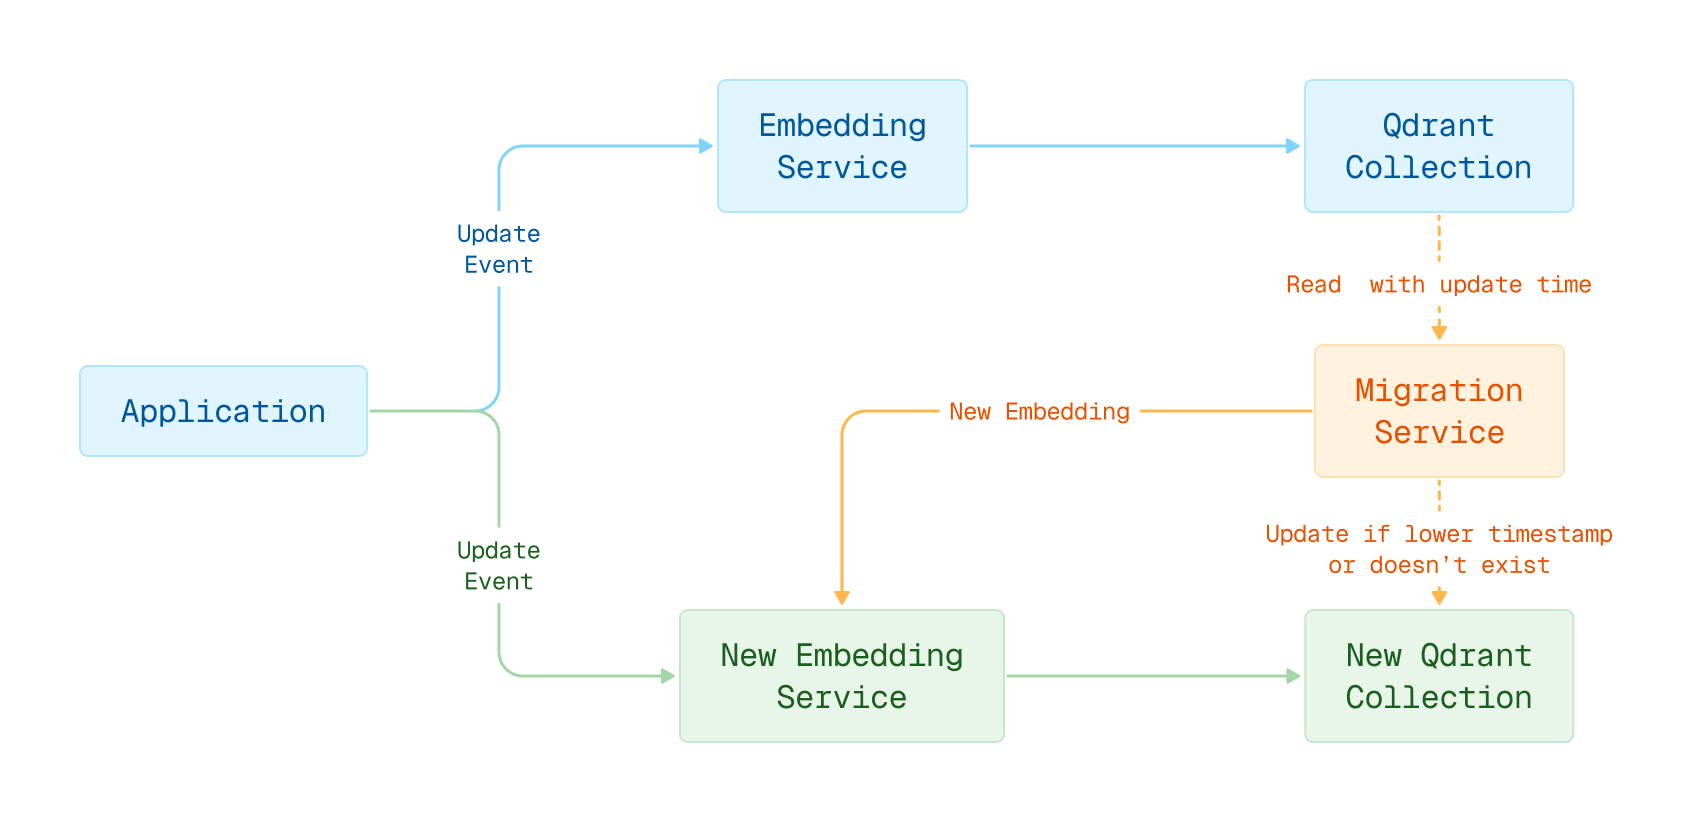
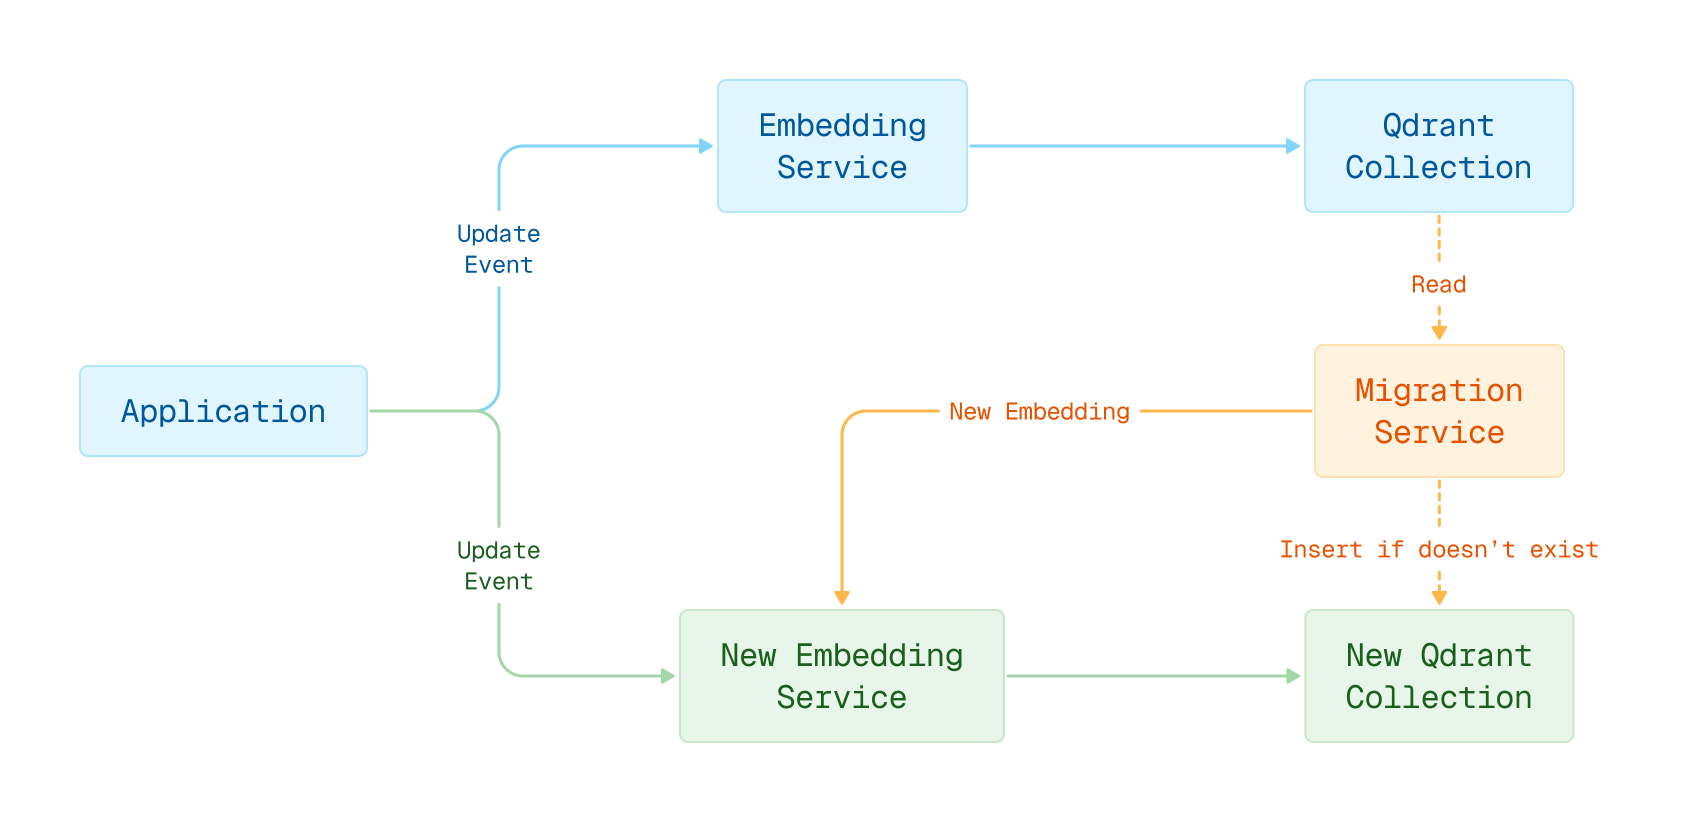
Andrey's feedback

Changed region(s): [[0.7393, 0.6387, 0.955, 0.6995], [0.7393, 0.3345, 0.955, 0.365]]

diff --git a/qdrant-landing/content/documentation/database-tutorials/embedding-model-migration.md b/qdrant-landing/content/documentation/database-tutorials/embedding-model-migration.md
@@ -5,7 +5,7 @@ aliases:
 weight: 191
 ---
 
-# Migrate to a New Embedding Model With Zero Downtime
+# Migrate to a New Embedding Model with Zero Downtime
 
 When building a semantic search application, you need to [choose an embedding 
 model](/articles/how-to-choose-an-embedding-model/). Over time, you may want to switch to a different model for better 
@@ -18,15 +18,13 @@ This tutorial will guide you step-by-step through the process of migrating to a 
 
 ## The Solution
 
-Switching the embedding model with zero downtime is possible by using a blue-green deployment with two collections. The first collection
-contains the old embeddings, and the second one is used to store the new embeddings. During the migration, you will
-keep both collections available for the search and then switch the search to use the new collection once all the
-vectors are re-embedded. **That operation requires some changes in your application code and cannot be done using
-the Qdrant APIs only.**
+Switching the embedding model with zero downtime is possible by using a blue-green deployment with two collections. The first collection contains the old embeddings, and the second one is used to store the new embeddings. A migration process copies the data from the old collection to the new one, re-embedding vectors using the new model. During the migration, you keep searching the old collection while writing any data updates to both collections. Once all vectors are re-embedded, switch the search to use the new collection.
 
 {{< figure src="/docs/embedding-model-migration.png" caption="Embedding model migration in blue-green deployment" width="80%" >}}
 
 Re-embedding requires access to the original data used to create the embeddings. This data can come from a primary database, or it may be stored in the payloads of the points in Qdrant. This tutorial assumes that the necessary data is stored in the payloads. This is usually the case, as the payload often contains the text or other data that was used to generate the embeddings.
+
+The solution outlined in this tutorial only works for upsert operations. If you use deletes or partial updates, it is necessary to pause those operations during the migration or implement additional logic to handle them.
 
 ## Step 1: Create a New Collection
 
@@ -52,25 +50,12 @@ Now is also a good moment to consider changing any other settings for the collec
 
 The newly created collection is empty and ready to be used for storing the new embeddings.
 
-<aside role="status">
-Qdrant supports <a href="/documentation/concepts/collections/#collection-aliases">collection aliases</a>, which act as 
-symbolic links to collections. If you use aliases, you can simply fill the new collection with the new embeddings 
-and then switch the alias to point to the new collection. This way, you can avoid changing the collection name in 
-your application code. This approach may still require some changes in the code, as you also need to change the
-embedding model used for encoding the vectors, but it simplifies the process of switching the search to the new 
-collection.
-</aside>
 
-## Step 2: Enable Dual-Write Mode in Your Application
+## Step 2: Enable Dual Writes
 
-To ensure that both collections are kept up-to-date during the migration, you need to write to both collections simultaneously. This way, any new data or updates to existing data are reflected in both collections.
+To ensure that both collections are kept up-to-date during the migration, you need to write any changes to both collections simultaneously. This way, any new data or updates to existing data are reflected in both collections.
 
-Ideally, the data in Qdrant is updated by an update service reading from an update queue. In this case, deploy a second service that updates the new collection in parallel with the existing one.
-
-In the case of a monolithic application, you need to modify your application code to write to both 
-collections simultaneously during the transition period. Somewhere in your code, where you handle the embedding of the
-documents, you should add the logic to write to both collections. For example, if you are using the Python SDK, your
-current code might look like this:
+Ideally, the data in Qdrant is updated by an update service reading from an update queue. This service is responsible for embedding the documents and writing them to Qdrant. It uses code similar to this:
 
 ```python
 client.upsert(
@@ -85,20 +70,9 @@ client.upsert(
 )
 ```
 
-You need to modify it to write to both collections:
+To update the new collection, deploy a second service that updates the new collection in parallel with the existing one. This service uses the new embedding model to encode the documents and writes them to the new collection:
 
 ```python
-client.upsert(
-    collection_name=OLD_COLLECTION,
-    points=[
-        models.PointStruct(
-            id=1,
-            vector=encode(text="Example document", model_name=OLD_MODEL),
-            payload={"text": "Example document"}
-        )
-    ]
-)
-
 client.upsert(
     collection_name=NEW_COLLECTION,
     points=[
@@ -114,22 +88,10 @@ client.upsert(
 
 A good practice is to always ensure that both operations succeed. Any errors need to be handled on the client side. You could store errors in a log or "dead letter queue" for later processing. Transient errors can be retried at a later time. Other errors need to be analyzed and addressed accordingly.
 
-<aside role="status">
-This example is an overly simplified version of the code, but it illustrates the idea. Practically, it makes a lot
-of sense to make this process controllable from the outside, so you can choose which models and corresponding collections to 
-use for each operation that modifies points in the collection. By making this effort now, you will save yourself a lot 
-of trouble later, as you will be able to dynamically switch the model in the future without changing the application 
-code again. 
-</aside> 
+If instead of update services, you have a monolithic application, you need to modify your application code to write to both collections simultaneously during the transition period. In your code, where you handle the embedding of the documents, you should add the logic to write to both collections.
 
-Please make sure to cover all the operations that can modify the data in your collections, **including updates and
-deletes**. Here are all the methods you have to modify in your application code to ensure you cover all the
-operations that can modify the data in your collections:
+Note that the method outlined in this tutorial only works for `upsert` operations. For example, a `delete` operation would fail on the new collection if a point does not exist yet, and that point would later be erroneously added by the migration process. If you use one of the following methods to modify points in your collection, you will need to pause those operations during the migration or implement additional logic to handle them:
 
-- `.upsert` - inserting/updating specified points
-- `.upload_points` - uploading points in batches (*method specific to Python SDK*)
-- `.upload_records` - uploading records in batches (*method specific to Python SDK*)
-- `.upload_collection` - uploading collection entries (*method specific to Python SDK*)
 - `.delete` - removing specified points from the collection
 - `.update_vectors` - updating specified vectors on points
 - `.delete_vectors` - deleting specified vectors from points
@@ -140,20 +102,16 @@ operations that can modify the data in your collections:
 - `.batch_update_points` - making batch updates to points, including their respective vectors and payloads
 
 Please refer to the [documentation of the SDK you are using](/documentation/interfaces/), or the 
-[HTTP](https://api.qdrant.tech/api-reference)/[gRPC](https://api.qdrant.tech/api-reference) definitions, for the exact 
-method names, as they may vary between languages. You are likely not using all these methods, so you only need to
-modify the ones that are relevant to your application.
+[HTTP](https://api.qdrant.tech/api-reference)/[gRPC](https://api.qdrant.tech/api-reference) definitions, for the exact method names, as they may vary between languages.
 
-After making these changes, your application will be in a **dual-write mode**, where it writes to both the old and new
-collections. This allows you to keep both collections up-to-date during the migration process, so the ongoing changes
-to your data are reflected in both collections.
+After making these changes, you will be in a **dual-write mode**, where any change is written to both the old and new collection. This allows you to keep both collections up-to-date during the migration process.
 
 ## Step 3: Migrate the Existing Points into the New Collection
 
-With the regular upsert services now writing to both collections, it is time to migrate the existing points from the old collection to the new one. This can be done in a separate process that runs
+Now that you're in dual-write mode, it is time to migrate the existing points from the old collection to the new one. This can be done in a separate process that runs
 in parallel with the regular upsert services. 
 
-The migration process reads the points from the old collection, re-embeds them using the new model, and writes them to the new collection. Here's an example of what the code for such a migration process could look like:
+The migration process reads the points from the old collection, re-embeds them using the new model, and writes them to the new collection, making sure not to overwrite existing points inserted by the update service. Here's an example of what the code for such a migration process could look like:
 
 ```python
 last_offset = None
@@ -210,22 +168,19 @@ Breaking down this code step by step:
 
 - Data is read from the old collection in batches of 100 points using a [scroll](/documentation/concepts/points/#scroll-points). The `last_offset` variable keeps track of the scroll position in the collection.
 - For each batch of points, the process re-embeds the vectors using the new embedding model. It assumes that the original text used for embedding is stored in the payload under the key `text`.
-- With the re-embedded vectors, it prepares [conditional upsert operations](/documentation/concepts/points/#conditional-updates) for the new collection, keeping the original IDs and payloads. The conditional upserts use a filter condition to ensure that the point is only inserted if it does not already exist in the new collection. The filter checks whether a point with the given ID already exists. A point is only upserted if the ID does not exist in the new collection. This prevents overwriting newer updates from the regular update service.
+- With the re-embedded vectors, it prepares [conditional upsert operations](/documentation/concepts/points/#conditional-updates) for the new collection, keeping the original IDs and payloads. The conditional upserts use a filter condition to ensure that a point is only inserted if it does not already exist in the new collection. The filter checks whether a point with the given ID already exists. A point is only upserted if the ID does not exist in the new collection. This prevents overwriting newer updates from the regular update service.
 - Finally, the process uses a [batch update](/documentation/concepts/points/#batch-update) to upsert the re-embedded points into the new collection. Note that it uses `batch_update_points` instead of `upsert`, because `batch_update_points` allows you to specify an update condition per upsert operation.
 
 This kind of migration process can take some time, and the offset can be stored in a persistent way, so you can resume the migration process in case of a failure. You can use a database, a file, or any other persistent storage to keep track of the last offset. Having said that, because the conditional upserts would not overwrite any points in the new collection, you could safely restart the migration process from the beginning if needed.
 
-## Step 4: Switch the Search to the New Collection
+## Step 4: Change the Collection and Embedding Model for Searches
 
-Once the migration process is complete, and all the points from the old collection are re-embedded and stored in
-the new collection, you can roll out a new instance of backend application pointing to a new collection. You need to modify the code that performs the search to use the new collection instead
-of the old one. There are three key changes you have to make:
+Once the migration process is complete, and all the points from the old collection are re-embedded and stored in the new collection, you can roll out a configuration change of the backend application. There are two key changes you have to make:
 
-1. **The collection name**, if you're not using an alias, so you don't search in the old collection anymore.
-2. **The vector name**, if you use named vectors and the name of the vector has changed.
-3. **The embedding model** that transforms the query into a vector.
+1. **The collection name**. Switch this from the old collection to the new collection. If you're using a [collection alias](/documentation/concepts/collections/#collection-aliases), switch the alias to point to the new collection.
+2. **The embedding model**. Switch this from the old embedding model to the new embedding model.
 
-If your old code looked like this:
+If these values are hardcoded in your application, you will need to change them directly in the code and deploy a new version of your application. For example, if your current search code looks like this:
 
 ```python
 results = client.query_points(
@@ -244,13 +199,6 @@ results = client.query_points(
     limit=10,
 )
 ```
-
-<aside role="status">
-Ideally, controlling the embedding model used for encoding the query is a part of the application logic you can 
-control from outside, so you can switch the model without changing the application code. If you went the extra mile
-to have it dynamic, now it's time to enjoy the benefits of that effort. It might also be achieved by spinning up a
-new version of the service that uses the new model and then switching the traffic to the new service.
-</aside>
 
 ## Step 5: Wrapping Up
 
